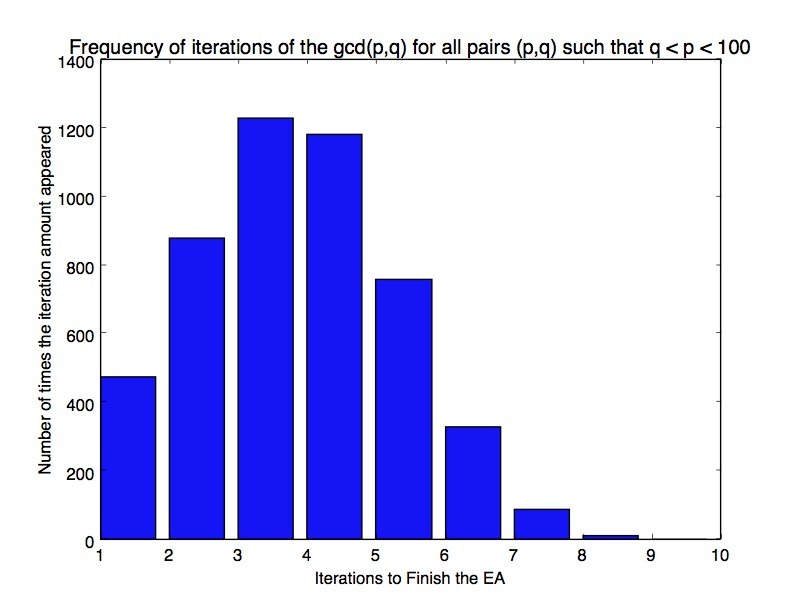
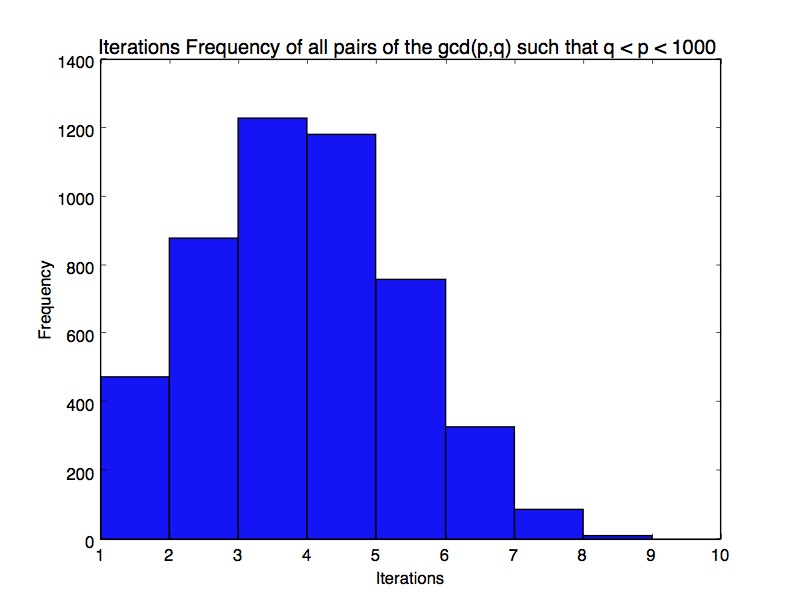
More changes
Turned the Bar graphs into histogram

diff --git a/Euclid/euclid_alg_python.py b/Euclid/euclid_alg_python.py
@@ -24,29 +24,32 @@ def gcd_iter(p, q):
           
      return i
 
+def f(x):
+     y = 1.618*x
+     return y
     
 def main():
      directory = []
      x = []
      y = []
      dictionary = defaultdict(int)
-     for q in range(1,10**2):
-          for p in range(q,10**2):
+     '''for q in range(1,10**3):
+          for p in range(q,10**3):
                d = gcd_iter(p,q)
                directory += [[p,q,d]]
-               dictionary[str(d)] += 1
+               dictionary[str(d)] += 1'''
      
-     '''for i in range(0,10000):
-          q = random.randint(0,10**1000)
+     for i in range(0,50000):
+          q = random.randint(0,10**10)
           
-          p = random.randint(q,10**1000) 
+          p = random.randint(q,10**10) 
 
 
           d  = gcd_iter(p, q)
           
           directory += [[p,q,d]]
           
-          dictionary[str(d)] += 1'''
+          dictionary[str(d)] += 1
 
 
           
@@ -93,14 +96,15 @@ def main():
           checkmax += [i[2]]
           
      maximum_iterations = max(checkmax)
+     minimum_iterations = min(checkmax)
      print
      checkmax = sorted(set(checkmax))
      
-     '''s1 = checkmax[0]
-     s2 = checkmax[1]
-     s3 = checkmax[2]
-     s4 = checkmax[3]
-     s5 = checkmax[4]
+     '''s1 = checkmax[-1]
+     s2 = checkmax[-2]
+     s3 = checkmax[-3]
+     s4 = checkmax[-4]
+     s5 = checkmax[-5]
      s6 = checkmax[5]
      s7 = checkmax[6]
      s8 = checkmax[7]
@@ -119,16 +123,19 @@ def main():
           y_667 += [i[2]]'''
 
 
-     
+     almost_longest = []
      
      print 
      
      for i in directory:
           if i[2] == maximum_iterations:
                longest_gcds += [i]
-          '''if i[2] == minimum_iterations:
-               #shortest_gcds += [i]
-          if i[2] == s1:
+          if i[2] == minimum_iterations:
+               shortest_gcds += [i]
+          if (i[2] == checkmax[-2]) or (i[2] == checkmax[-3]) or (i[2] == checkmax[-4]):
+               almost_longest +=[i]
+              
+          '''if i[2] == s1:
                x1 += [i[0]]
                y1 += [i[1]]
                
@@ -188,10 +195,27 @@ def main():
      for i in longest_gcds:
           print  "gcd(" + str(i[0]) + ", " + str(i[1]) + ")  |  Iterations:" + str(i[2])
           
+     print "\n---------------------------------------------------------\n"
+     
      print "The following p's and q's return the shortest number of iterations:\n"
      for i in shortest_gcds:
           print  "gcd(" + str(i[0]) + ", " + str(i[1]) + ")  |  Iterations:" + str(i[2])
-
+     
+     print "\n---------------------------------------------------------\n"
+          
+     '''print "The following p's and q's return a large number of iterations:\n"
+     
+     avg = 0.0
+     k = 0
+     
+     for i in almost_longest:
+          avg += float(i[0])/float(i[1])
+          print  "gcd(" + str(i[0]) + ", " + str(i[1]) + ") | Ratio p/q: " +str(float(i[0])/float(i[1])) +" |  Iterations: " + str(i[2])
+          k = k + 1
+          
+     avg = avg/k
+     print "Average p/q: " + str(avg)'''
+     
      
 
 
@@ -201,18 +225,21 @@ def main():
           y += [dictionary[i]]
 
 
-          
+     #t1 = np.arange(0.0, 100000.0, 10)
+     
+     
                                                                                           
      colors = np.random.rand(15)
      fig = plt.figure()
      ax = plt.subplot(111)
-     ax.bar(x,y)
-     '''ax.scatter(x_667,y_667)
+     ax.bar(x,y,1)
+     '''#ax.scatter(x_667,y_667)
+     
      ax.scatter(x1,y1, c = 'b')
-     ax.scatter(x2,y2, c = 'b')
-     ax.scatter(x3,y3, c = 'g')
-     ax.scatter(x4,y4, c = 'g')
-     ax.scatter(x5,y5, c= 'r')
+     ax.scatter(x2,y2, c = 'g')
+     ax.scatter(x3,y3, c = 'r')
+     ax.scatter(x4,y4, c = 'c')
+     ax.scatter(x5,y5, c= 'm')
      ax.scatter(x6,y6, c='r')
      ax.scatter(x7,y7,c= 'c')
      ax.scatter(x8,y8, c='c')
@@ -222,12 +249,13 @@ def main():
      #ax.scatter(x12,y12, c= 'y')
      #ax.scatter(x13,y13, c='k')
      #ax.scatter(x14,y14,c= 'k')
-     #ax.scatter(x15,y15,c='w')'''
+     #ax.scatter(x15,y15,c='w')
+     plt.plot(t1,f(t1), 'k')'''
 
      
-     plt.xlabel("Iterations to Finish the EA")
-     plt.ylabel("Number of times the iteration amount appeared")
-     plt.title("Frequency of iterations of the gcd(p,q) for all pairs (p,q) such that q < p < 100")
+     plt.xlabel("Iterations")
+     plt.ylabel("Frequency")
+     plt.title("Iterations Frequency of 50,000 random pairs of the gcd(p,q) such that q < p < 10^10 ")
      plt.show()
      
 main()
